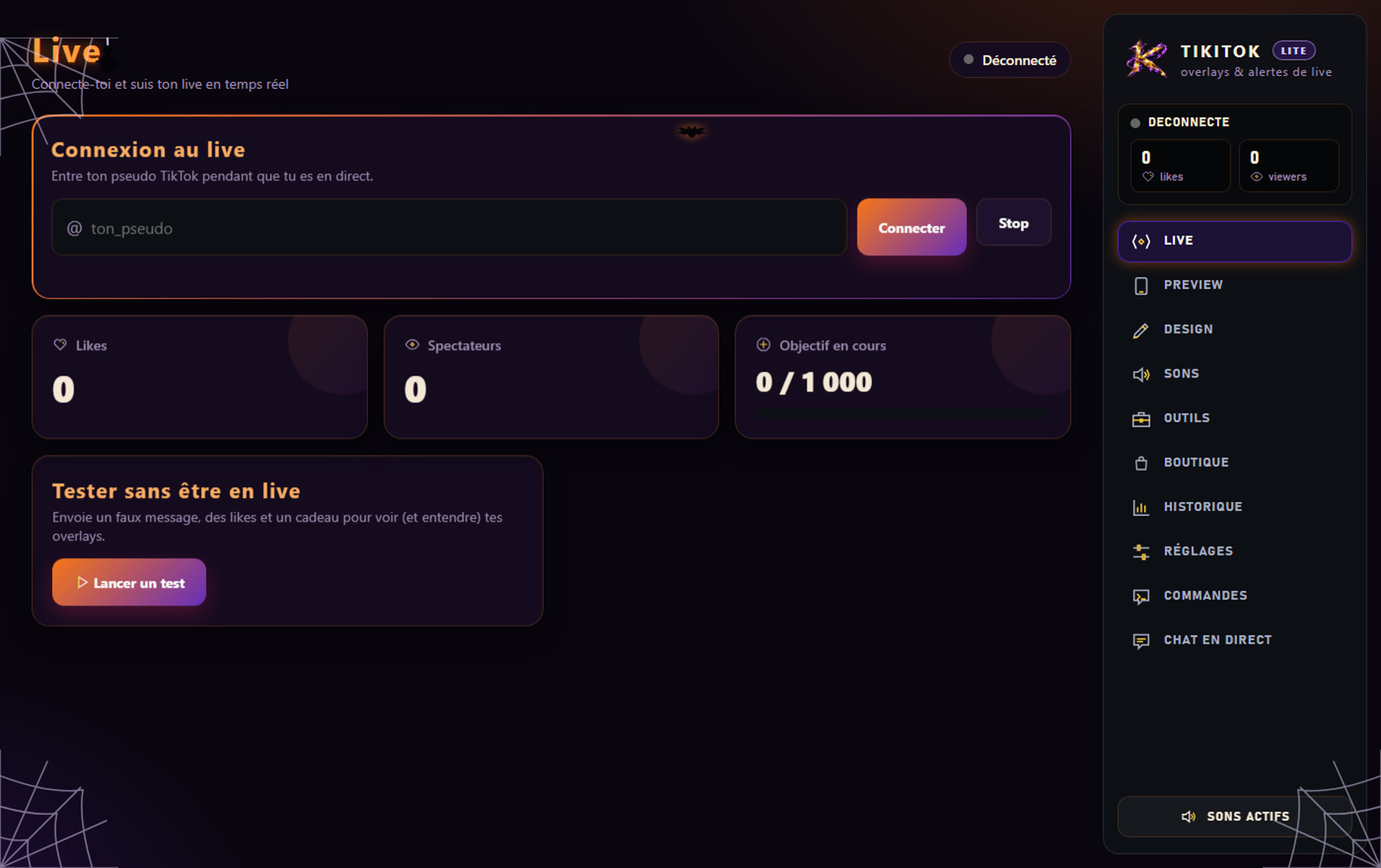
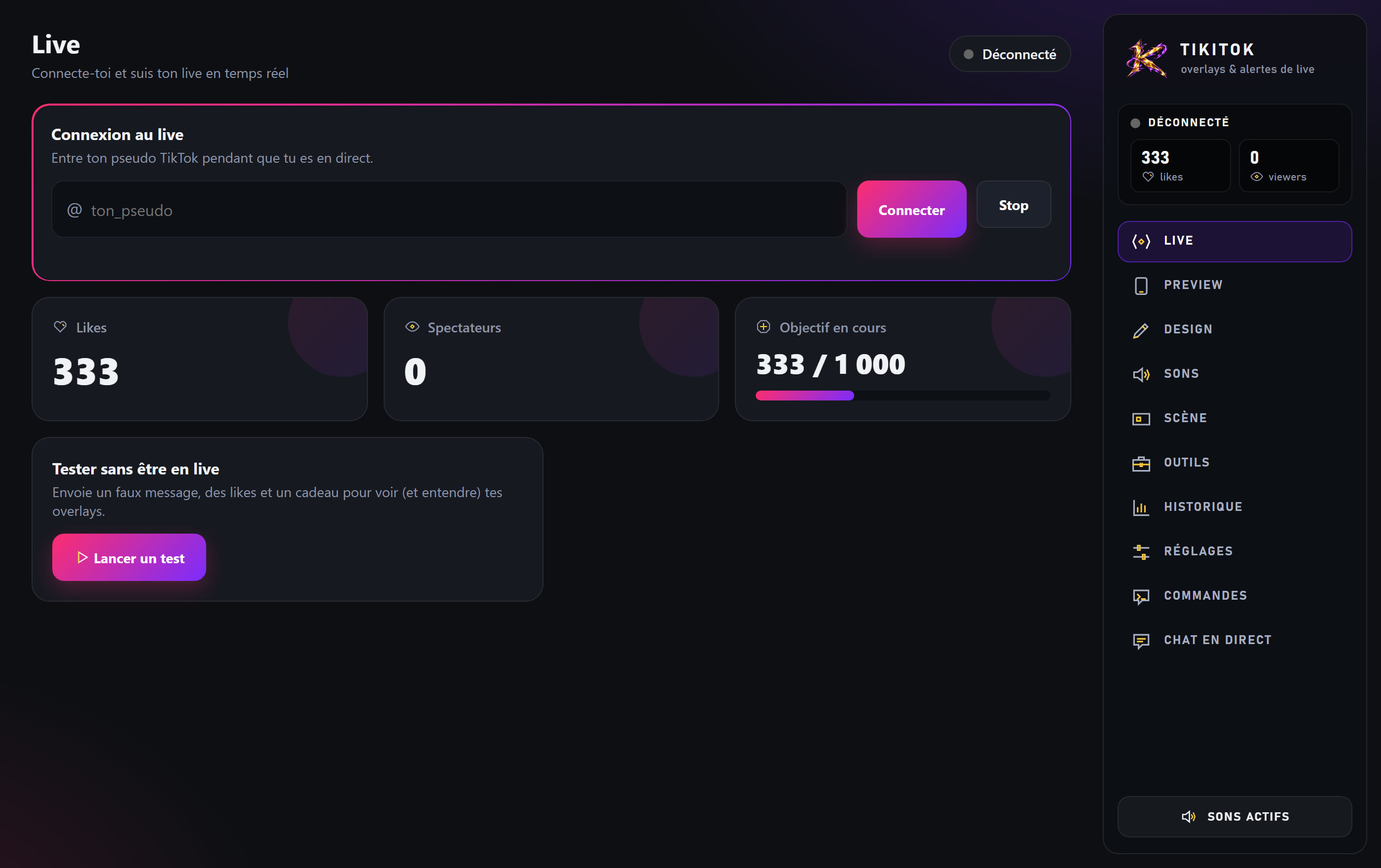
Add files via upload

diff --git a/index.html b/index.html
@@ -1,5 +1,5 @@
 <!doctype html>
-<html lang="fr" class="hw">
+<html lang="fr">
 <head>
 <meta charset="utf-8">
 <meta name="viewport" content="width=device-width, initial-scale=1">
@@ -516,7 +516,7 @@
   /* offres : plus courtes, la liste ci-dessus dit déjà tout */
   .plans { grid-template-columns: minmax(0, .85fr) minmax(0, 1.15fr); }
   @media (max-width: 760px) { .plans { grid-template-columns: 1fr; } }
-  .plan ul { gap: 12px; margin-bottom: 26px; }
+  .plan ul { gap: 12px; margin-bottom: 26px; align-content: start; }
   .paystrip { display: flex; align-items: center; justify-content: space-between; gap: 18px 30px; flex-wrap: wrap; margin-top: 30px; padding: 20px 24px; border-radius: 18px; border: 1px dashed rgba(255,255,255,.2); background: rgba(255,255,255,.03); }
   .paystrip p { margin: 0; color: #d9d3e8; max-width: 470px; }
   html.hw .paystrip { border-color: rgba(255,150,60,.35); }
@@ -552,16 +552,16 @@
   html.hw #hwDeco .embers, html.hw #hwDeco .fog { display: none; }
   /* barre de défilement maison : fine, sombre, curseur dégradé orange-rose */
   ::-webkit-scrollbar { width: 12px; height: 12px; }
-  ::-webkit-scrollbar-track { background: #0c0614; border-left: 1px solid rgba(255,150,60,.12); }
-  ::-webkit-scrollbar-thumb { border-radius: 99px; border: 3px solid #0c0614; background: linear-gradient(180deg, #ff9a3c, #ff3d8b); min-height: 48px; }
-  ::-webkit-scrollbar-thumb:hover { background: linear-gradient(180deg, #ffb066, #ff5fa0); }
+  ::-webkit-scrollbar-track { background: #0c0614; border-left: 1px solid rgba(160,110,255,.12); }
+  ::-webkit-scrollbar-thumb { border-radius: 99px; border: 3px solid #0c0614; background: linear-gradient(180deg, #ff5f9e, #ff3d8b); min-height: 48px; }
+  ::-webkit-scrollbar-thumb:hover { background: linear-gradient(180deg, #ff9cc4, #ff5fa0); }
   ::-webkit-scrollbar-corner { background: #0c0614; }
   #fx { position: fixed; inset: 0; width: 100%; height: 100%; z-index: 0; pointer-events: none; }
   #stage { position: fixed; inset: 0; z-index: 1; pointer-events: none; overflow: hidden; perspective: 1500px; perspective-origin: 50% 46%; transition: opacity .4s; }
   #world { position: absolute; left: 50%; top: 50%; width: 0; height: 0; transform-style: preserve-3d; will-change: transform; }
   .pc { position: absolute; left: 0; top: 0; transform-style: preserve-3d; backface-visibility: hidden; will-change: transform, opacity; border-radius: 10px; overflow: hidden; }
   .pc.tile { background-repeat: no-repeat; box-shadow: 0 0 0 1px rgba(255,255,255,.06); }
-  .pc.card { background-size: cover; background-position: center; box-shadow: 0 16px 38px rgba(0,0,0,.6), 0 0 0 1px rgba(255,150,60,.25), 0 0 26px rgba(255,122,26,.18); }
+  .pc.card { background-size: cover; background-position: center; box-shadow: 0 16px 38px rgba(0,0,0,.6), 0 0 0 1px rgba(160,110,255,.25), 0 0 26px rgba(255,45,111,.18); }
   @keyframes kb { from { background-size: 100% 100%; background-position: 0 0; } to { background-size: 128% 128%; background-position: 100% 100%; } }
   @keyframes pan { from { background-position: var(--p0); } to { background-position: var(--p1); } }
   .pc.card.kb { animation: kb var(--kd, 14s) ease-in-out var(--kl, 0s) infinite alternate; }
@@ -569,11 +569,11 @@
   @media (prefers-reduced-motion: reduce) { .pc.card.kb, .pc.card.pn { animation: none; } }
   .pc.spr { overflow: visible; border-radius: 0; filter: drop-shadow(0 0 10px currentColor); }
   .pc.spr svg { width: 100%; height: 100%; display: block; stroke: currentColor; fill: none; stroke-width: 1.6; stroke-linecap: round; stroke-linejoin: round; }
-  .pc.mini { box-shadow: 0 18px 40px rgba(0,0,0,.55), 0 0 28px rgba(255,122,26,.2); }
+  .pc.mini { box-shadow: 0 18px 40px rgba(0,0,0,.55), 0 0 28px rgba(255,45,111,.2); }
   header { position: fixed; top: 0; left: 0; right: 0; z-index: 60; margin: 0; background: linear-gradient(180deg, rgba(7,3,12,.9), rgba(7,3,12,0)); }
   header .wrap { height: 70px; border-radius: 0; background: transparent; border: 0; box-shadow: none; backdrop-filter: none; padding: 0; }
   header .wrap::after, html.hw header::after { display: none !important; }
-  header.solid { background: rgba(7,3,12,.82); backdrop-filter: blur(14px); border-bottom: 1px solid rgba(255,150,60,.18); }
+  header.solid { background: rgba(7,3,12,.82); backdrop-filter: blur(14px); border-bottom: 1px solid rgba(160,110,255,.18); }
   main, footer { position: relative; z-index: 2; }
 
   /* points de navigation à droite : le chapitre en cours est nommé */
@@ -582,7 +582,7 @@
   #dots button span { opacity: 0; transform: translateX(8px); transition: opacity .25s, transform .25s; color: #fff; }
   #dots button i { width: 8px; height: 8px; border-radius: 50%; background: rgba(255,255,255,.28); transition: background .25s, transform .25s, box-shadow .25s; }
   #dots button:hover span, #dots button.on span { opacity: 1; transform: none; }
-  #dots button.on i { background: #ff7a1a; transform: scale(1.5); box-shadow: 0 0 14px #ff7a1a; }
+  #dots button.on i { background: #ff2d6f; transform: scale(1.5); box-shadow: 0 0 14px #ff2d6f; }
   @media (max-width: 900px) { #dots { display: none; } }
 
   /* chapitres */
@@ -592,20 +592,20 @@
   .chin.mid { text-align: center; }
   .chin.left { max-width: 1180px; } .chin.left > * { max-width: 520px; }
   .ch .eyebrow::before, .ch .eyebrow::after, .essai .pilltag::before { display: none !important; }
-  .ch .eyebrow { font: 800 13px Consolas, "Courier New", monospace; letter-spacing: .38em; text-transform: uppercase; color: #ff7a1a; margin-bottom: 20px; text-shadow: 0 0 16px rgba(255,122,26,.45); }
+  .ch .eyebrow { font: 800 13px Consolas, "Courier New", monospace; letter-spacing: .38em; text-transform: uppercase; color: #ff2d6f; margin-bottom: 20px; text-shadow: 0 0 16px rgba(255,45,111,.45); }
   .ch h1 { font-size: clamp(50px, 8.4vw, 118px); font-weight: 800; letter-spacing: -.045em; line-height: .96; margin: 0 auto 26px; max-width: 14ch; }
   .ch h2 { font-size: clamp(38px, 5.6vw, 76px); font-weight: 800; letter-spacing: -.04em; line-height: .98; margin: 0 0 24px; }
-  .ch h1 em, .ch h2 em, .essai h2 em { font-style: normal; background: linear-gradient(100deg, #ffb347, #ff7a1a 45%, #ff3d8b); -webkit-background-clip: text; background-clip: text; color: transparent; filter: drop-shadow(0 0 22px rgba(255,122,26,.35)); }
+  .ch h1 em, .ch h2 em, .essai h2 em { font-style: normal; background: linear-gradient(100deg, #ff7ab0, #ff2d6f 45%, #ff3d8b); -webkit-background-clip: text; background-clip: text; color: transparent; filter: drop-shadow(0 0 22px rgba(255,45,111,.35)); }
   .ch .lead { color: #c3b4de; font-size: clamp(17px, 1.7vw, 21px); line-height: 1.55; margin: 0 0 30px; }
   .chin.mid .lead { margin-inline: auto; max-width: 640px; }
   .ch .cta { display: flex; gap: 14px; flex-wrap: wrap; justify-content: center; }
   .ch .legal { margin: 26px auto 0; max-width: 560px; }
   .scrollhint { margin-top: 60px; display: grid; justify-items: center; gap: 10px; color: rgba(255,255,255,.5); font: 800 11px Consolas, monospace; letter-spacing: .3em; text-transform: uppercase; }
-  .scrollhint i { width: 1px; height: 48px; background: linear-gradient(#ff7a1a, transparent); animation: sh 1.8s ease-in-out infinite; }
+  .scrollhint i { width: 1px; height: 48px; background: linear-gradient(#ff2d6f, transparent); animation: sh 1.8s ease-in-out infinite; }
   @keyframes sh { 0% { transform: scaleY(0); transform-origin: top; } 50% { transform: scaleY(1); transform-origin: top; } 51% { transform-origin: bottom; } 100% { transform: scaleY(0); transform-origin: bottom; } }
   .legend { display: flex; gap: 10px; margin: 0 0 8px; }
   .chips { list-style: none; margin: 0; padding: 0; display: flex; flex-wrap: wrap; gap: 10px; }
-  .chips li { display: inline-flex; align-items: center; gap: 10px; padding: 9px 16px 9px 10px; border-radius: 999px; background: rgba(255,255,255,.05); border: 1px solid rgba(255,150,60,.25); font-size: 15px; backdrop-filter: blur(6px); }
+  .chips li { display: inline-flex; align-items: center; gap: 10px; padding: 9px 16px 9px 10px; border-radius: 999px; background: rgba(255,255,255,.05); border: 1px solid rgba(160,110,255,.25); font-size: 15px; backdrop-filter: blur(6px); }
   .ch .chin > * { opacity: 0; transform: translateY(26px); transition: opacity .7s, transform .7s; }
   .ch.vu .chin > * { opacity: 1; transform: none; }
   .ch.vu .chin > *:nth-child(2) { transition-delay: .08s; } .ch.vu .chin > *:nth-child(3) { transition-delay: .16s; } .ch.vu .chin > *:nth-child(4) { transition-delay: .24s; } .ch.vu .chin > *:nth-child(5) { transition-delay: .32s; }
@@ -614,28 +614,28 @@
   /* essaie toi-même */
   .essai { padding: 110px 0 120px; text-align: center; }
   .essai .wrap { width: min(1120px, 100% - 40px); }
-  .pilltag { display: inline-block; padding: 8px 20px; border-radius: 999px; border: 1px solid rgba(255,122,26,.45); background: rgba(255,122,26,.08); color: #ffb066; font: 800 12px Consolas, monospace; letter-spacing: .28em; text-transform: uppercase; box-shadow: 0 0 24px rgba(255,122,26,.18); margin-bottom: 22px; }
+  .pilltag { display: inline-block; padding: 8px 20px; border-radius: 999px; border: 1px solid rgba(255,45,111,.45); background: rgba(255,45,111,.08); color: #ff9cc4; font: 800 12px Consolas, monospace; letter-spacing: .28em; text-transform: uppercase; box-shadow: 0 0 24px rgba(255,45,111,.18); margin-bottom: 22px; }
   .essai h2 { font-size: clamp(34px, 5vw, 64px); font-weight: 800; letter-spacing: -.04em; line-height: 1; margin: 0 0 18px; }
   .essai .lead2.mid { margin: 0 auto 44px; max-width: 620px; }
   .demo { display: grid; grid-template-columns: minmax(280px, .9fr) minmax(280px, 1.1fr); gap: 40px; align-items: center; text-align: left; }
   @media (max-width: 860px) { .demo { grid-template-columns: 1fr; } }
   .gifts { display: grid; gap: 12px; }
-  .gifthd { font: 800 12px Consolas, monospace; letter-spacing: .26em; text-transform: uppercase; color: #ffb066; margin-bottom: 4px; }
-  .gift { display: flex; align-items: center; gap: 14px; padding: 14px 18px; border-radius: 18px; border: 1px solid rgba(255,150,60,.2); background: rgba(255,255,255,.04); color: inherit; font: inherit; text-align: left; cursor: pointer; transition: transform .18s, border-color .18s, box-shadow .18s, background .18s; }
-  .gift:hover { transform: translateX(6px); border-color: rgba(255,122,26,.6); background: rgba(255,122,26,.08); }
-  .gift.on { border-color: #ff7a1a; box-shadow: 0 0 30px rgba(255,122,26,.3); background: rgba(255,122,26,.12); }
+  .gifthd { font: 800 12px Consolas, monospace; letter-spacing: .26em; text-transform: uppercase; color: #ff9cc4; margin-bottom: 4px; }
+  .gift { display: flex; align-items: center; gap: 14px; padding: 14px 18px; border-radius: 18px; border: 1px solid rgba(160,110,255,.2); background: rgba(255,255,255,.04); color: inherit; font: inherit; text-align: left; cursor: pointer; transition: transform .18s, border-color .18s, box-shadow .18s, background .18s; }
+  .gift:hover { transform: translateX(6px); border-color: rgba(255,45,111,.6); background: rgba(255,45,111,.08); }
+  .gift.on { border-color: #ff2d6f; box-shadow: 0 0 30px rgba(255,45,111,.3); background: rgba(255,45,111,.12); }
   .gift .gi { width: 52px; height: 52px; flex: none; display: grid; place-items: center; border-radius: 14px; background: rgba(0,0,0,.35); font-size: 30px; border: 1px solid rgba(255,255,255,.1); }
   .gift b { display: block; font-size: 18px; } .gift small { color: #a99bc4; font-size: 13px; }
-  .gift .dv { margin-left: auto; font: 800 13px Consolas, monospace; color: #8cff2e; }
+  .gift .dv { margin-left: auto; font: 800 13px Consolas, monospace; color: #7b2cff; }
   .phoneW { display: grid; place-items: center; }
-  .phone { position: relative; width: min(300px, 70vw); aspect-ratio: 9 / 18; border-radius: 34px; overflow: hidden; border: 8px solid #151021; box-shadow: 0 0 0 1px rgba(255,150,60,.35), 0 30px 80px rgba(0,0,0,.7), 0 0 70px rgba(255,122,26,.25); background: #0a0610; isolation: isolate; }
-  .phone .vid { position: absolute; inset: -20%; z-index: -1; background: radial-gradient(60% 50% at 30% 30%, #ff7a1a 0, transparent 60%), radial-gradient(55% 50% at 78% 62%, #6a2bd0 0, transparent 62%), radial-gradient(50% 40% at 40% 92%, #3fae12 0, transparent 62%), #12060c; filter: blur(22px); opacity: .85; animation: vidm 12s ease-in-out infinite alternate; }
+  .phone { position: relative; width: min(300px, 70vw); aspect-ratio: 9 / 18; border-radius: 34px; overflow: hidden; border: 8px solid #151021; box-shadow: 0 0 0 1px rgba(160,110,255,.35), 0 30px 80px rgba(0,0,0,.7), 0 0 70px rgba(255,45,111,.25); background: #0a0610; isolation: isolate; }
+  .phone .vid { position: absolute; inset: -20%; z-index: -1; background: radial-gradient(60% 50% at 30% 30%, #ff2d6f 0, transparent 60%), radial-gradient(55% 50% at 78% 62%, #6a2bd0 0, transparent 62%), radial-gradient(50% 40% at 40% 92%, #3fae12 0, transparent 62%), #12060c; filter: blur(22px); opacity: .85; animation: vidm 12s ease-in-out infinite alternate; }
   @keyframes vidm { to { transform: rotate(14deg) scale(1.15); } }
   .ph-top { position: absolute; top: 14px; left: 12px; right: 12px; display: flex; justify-content: space-between; font: 800 11px Consolas, monospace; letter-spacing: .08em; }
-  .ph-top .live { padding: 4px 9px; border-radius: 6px; background: #ff7a1a; box-shadow: 0 0 14px rgba(255,122,26,.7); } .ph-top .vw { padding: 4px 9px; border-radius: 6px; background: rgba(0,0,0,.45); }
+  .ph-top .live { padding: 4px 9px; border-radius: 6px; background: #ff2d6f; box-shadow: 0 0 14px rgba(255,45,111,.7); } .ph-top .vw { padding: 4px 9px; border-radius: 6px; background: rgba(0,0,0,.45); }
   .ph-goal { position: absolute; top: 46px; left: 12px; right: 12px; padding: 8px 10px; border-radius: 12px; background: rgba(0,0,0,.45); border: 1px solid rgba(255,255,255,.12); backdrop-filter: blur(6px); }
   .ph-goal .gl { display: flex; justify-content: space-between; font: 800 11px Consolas, monospace; margin-bottom: 6px; }
-  .ph-goal .gb { height: 8px; border-radius: 8px; background: rgba(255,255,255,.14); overflow: hidden; } .ph-goal .gb i { display: block; height: 100%; width: 0; border-radius: 8px; background: linear-gradient(90deg, #8cff2e, #ffb347); box-shadow: 0 0 12px #8cff2e; transition: width .7s cubic-bezier(.2,.8,.2,1); }
+  .ph-goal .gb { height: 8px; border-radius: 8px; background: rgba(255,255,255,.14); overflow: hidden; } .ph-goal .gb i { display: block; height: 100%; width: 0; border-radius: 8px; background: linear-gradient(90deg, #7b2cff, #ff7ab0); box-shadow: 0 0 12px #7b2cff; transition: width .7s cubic-bezier(.2,.8,.2,1); }
   .ph-alerts { position: absolute; left: 10px; right: 10px; top: 104px; display: flex; flex-direction: column; gap: 8px; }
   .al { display: flex; align-items: center; gap: 10px; padding: 8px 12px 8px 8px; border-radius: 14px; border: 2px solid var(--c, #3aa0ff); background: linear-gradient(100deg, rgba(13,27,94,.96), rgba(22,48,143,.9)); box-shadow: 0 8px 20px rgba(0,0,0,.5), 0 0 18px color-mix(in srgb, var(--c, #3aa0ff) 45%, transparent); animation: alIn .5s cubic-bezier(.2,1.4,.4,1) both; }
   .al.out { animation: alOut .4s forwards; } @keyframes alIn { from { opacity: 0; transform: translateX(-60px) scale(.85); } to { opacity: 1; transform: none; } } @keyframes alOut { to { opacity: 0; transform: translateX(-30px); } }
@@ -645,25 +645,25 @@
   .ph-hearts span { position: absolute; bottom: 0; font-size: 22px; animation: dmRise 3s ease-in forwards; }
   @keyframes dmRise { 0% { transform: translate(0,0) scale(.4); opacity: 0; } 12% { opacity: 1; transform: translate(0,-20px) scale(1); } 100% { transform: translate(var(--dx), -330px) scale(1.15) rotate(var(--rot)); opacity: 0; } }
   .ph-chat { position: absolute; left: 10px; right: 70px; bottom: 14px; display: flex; flex-direction: column; justify-content: flex-end; gap: 5px; height: 130px; overflow: hidden; -webkit-mask: linear-gradient(transparent, #000 40%); mask: linear-gradient(transparent, #000 40%); }
-  .ph-chat div { font: 600 12px "Segoe UI", sans-serif; padding: 5px 10px; border-radius: 12px; background: rgba(0,0,0,.5); width: fit-content; max-width: 100%; animation: pop .3s cubic-bezier(.2,1.2,.3,1); } .ph-chat div b { color: #ffb347; margin-right: 6px; }
+  .ph-chat div { font: 600 12px "Segoe UI", sans-serif; padding: 5px 10px; border-radius: 12px; background: rgba(0,0,0,.5); width: fit-content; max-width: 100%; animation: pop .3s cubic-bezier(.2,1.2,.3,1); } .ph-chat div b { color: #ff7ab0; margin-right: 6px; }
   @keyframes pop { from { transform: translateY(12px) scale(.9); opacity: 0; } }
   .ph-flash { position: absolute; inset: 0; pointer-events: none; opacity: 0; background: radial-gradient(ellipse at 50% 40%, var(--fc, #ffb21e), transparent 65%); } .ph-flash.on { animation: fl .9s ease-out; } @keyframes fl { 0% { opacity: .75; } 100% { opacity: 0; } }
 
   /* mini overlays (les panneaux qui tournent dans la scène) */
-  .mn { font-family: "Segoe UI", sans-serif; color: #fff; background: linear-gradient(150deg, rgba(34,14,52,.96), rgba(14,8,26,.97)); border: 1px solid rgba(255,150,60,.35); padding: 12px 14px; }
-  .mn::before { content: ""; position: absolute; left: 14px; top: 0; width: 46px; height: 4px; border-radius: 0 0 5px 5px; background: linear-gradient(90deg, #ff7a1a, #ff3d8b); }
-  .mn .t { font: 800 11px Consolas, monospace; letter-spacing: .2em; text-transform: uppercase; color: #ffb066; margin-bottom: 8px; }
-  .mn .row { display: flex; align-items: center; gap: 8px; margin: 5px 0; font-size: 13px; } .mn .row b { margin-left: auto; color: #ff7a1a; }
-  .mn .av { width: 22px; height: 22px; border-radius: 50%; background: linear-gradient(135deg, #8b3dff, #ff7a1a); flex: none; }
-  .mn .bar { height: 10px; border-radius: 10px; background: rgba(255,255,255,.12); overflow: hidden; } .mn .bar i { display: block; height: 100%; border-radius: 10px; background: linear-gradient(90deg, #8cff2e, #ffb347); }
+  .mn { font-family: "Segoe UI", sans-serif; color: #fff; background: linear-gradient(150deg, rgba(34,14,52,.96), rgba(14,8,26,.97)); border: 1px solid rgba(160,110,255,.35); padding: 12px 14px; }
+  .mn::before { content: ""; position: absolute; left: 14px; top: 0; width: 46px; height: 4px; border-radius: 0 0 5px 5px; background: linear-gradient(90deg, #ff2d6f, #ff3d8b); }
+  .mn .t { font: 800 11px Consolas, monospace; letter-spacing: .2em; text-transform: uppercase; color: #ff9cc4; margin-bottom: 8px; }
+  .mn .row { display: flex; align-items: center; gap: 8px; margin: 5px 0; font-size: 13px; } .mn .row b { margin-left: auto; color: #ff2d6f; }
+  .mn .av { width: 22px; height: 22px; border-radius: 50%; background: linear-gradient(135deg, #8b3dff, #ff2d6f); flex: none; }
+  .mn .bar { height: 10px; border-radius: 10px; background: rgba(255,255,255,.12); overflow: hidden; } .mn .bar i { display: block; height: 100%; border-radius: 10px; background: linear-gradient(90deg, #7b2cff, #ff7ab0); }
   .mn .big { font: 900 34px Impact, "Arial Black", sans-serif; letter-spacing: .02em; line-height: 1; }
-  .mn .bub { padding: 6px 12px; border-radius: 14px; background: rgba(255,255,255,.09); font-size: 12px; margin: 4px 0; width: fit-content; } .mn .bub b { color: #ffb347; margin-right: 5px; }
-  .mn.wheel { display: grid; place-items: center; padding: 10px; } .mn.wheel i { width: 132px; height: 132px; border-radius: 50%; background: conic-gradient(#ff7a1a 0 16%, #8b3dff 0 33%, #8cff2e 0 50%, #ff3d8b 0 66%, #ffd24a 0 83%, #38c8ff 0); border: 5px solid #fff; box-shadow: 0 0 30px rgba(255,122,26,.5), inset 0 0 20px rgba(0,0,0,.4); position: relative; } .mn.wheel i::after { content: ""; position: absolute; left: 50%; top: -12px; margin-left: -9px; border: 9px solid transparent; border-top: 18px solid #fff; }
-  .mn.dice { display: grid; place-items: center; background: none; border: 0; } .mn.dice::before { display: none; } .mn.dice i { width: 96px; height: 96px; border-radius: 20px; background: linear-gradient(145deg, #fff, #cfc9de); display: grid; grid-template: repeat(3, 1fr) / repeat(3, 1fr); padding: 14px; box-shadow: 0 12px 30px rgba(0,0,0,.5), 0 0 30px rgba(255,122,26,.35); transform: rotate(-12deg); } .mn.dice i b { width: 16px; height: 16px; border-radius: 50%; background: #1b1130; place-self: center; }
-  .mn.cam { padding: 0; background: linear-gradient(135deg, #3a1a6a, #ff7a1a); border: 4px solid #8cff2e; box-shadow: 0 0 24px rgba(140,255,46,.5), inset 0 0 40px rgba(0,0,0,.4); } .mn.cam::before { display: none; } .mn.cam span { position: absolute; left: 10px; bottom: 6px; font: 800 11px Consolas, monospace; letter-spacing: .2em; color: #fff; }
+  .mn .bub { padding: 6px 12px; border-radius: 14px; background: rgba(255,255,255,.09); font-size: 12px; margin: 4px 0; width: fit-content; } .mn .bub b { color: #ff7ab0; margin-right: 5px; }
+  .mn.wheel { display: grid; place-items: center; padding: 10px; } .mn.wheel i { width: 132px; height: 132px; border-radius: 50%; background: conic-gradient(#ff2d6f 0 16%, #8b3dff 0 33%, #7b2cff 0 50%, #ff3d8b 0 66%, #ffd24a 0 83%, #38c8ff 0); border: 5px solid #fff; box-shadow: 0 0 30px rgba(255,45,111,.5), inset 0 0 20px rgba(0,0,0,.4); position: relative; } .mn.wheel i::after { content: ""; position: absolute; left: 50%; top: -12px; margin-left: -9px; border: 9px solid transparent; border-top: 18px solid #fff; }
+  .mn.dice { display: grid; place-items: center; background: none; border: 0; } .mn.dice::before { display: none; } .mn.dice i { width: 96px; height: 96px; border-radius: 20px; background: linear-gradient(145deg, #fff, #cfc9de); display: grid; grid-template: repeat(3, 1fr) / repeat(3, 1fr); padding: 14px; box-shadow: 0 12px 30px rgba(0,0,0,.5), 0 0 30px rgba(255,45,111,.35); transform: rotate(-12deg); } .mn.dice i b { width: 16px; height: 16px; border-radius: 50%; background: #1b1130; place-self: center; }
+  .mn.cam { padding: 0; background: linear-gradient(135deg, #3a1a6a, #ff2d6f); border: 4px solid #7b2cff; box-shadow: 0 0 24px rgba(140,255,46,.5), inset 0 0 40px rgba(0,0,0,.4); } .mn.cam::before { display: none; } .mn.cam span { position: absolute; left: 10px; bottom: 6px; font: 800 11px Consolas, monospace; letter-spacing: .2em; color: #fff; }
   .mn.giftm { display: flex; align-items: center; gap: 12px; border-color: #b44dff; box-shadow: 0 0 22px rgba(180,77,255,.4); } .mn.giftm .ge { width: 52px; height: 52px; border-radius: 12px; background: linear-gradient(160deg, #b44dff, #5a1f8f); display: grid; place-items: center; font-size: 32px; flex: none; } .mn.giftm small { font: 800 9px Consolas, monospace; letter-spacing: .2em; color: #b44dff; display: block; } .mn.giftm b { font-size: 20px; text-transform: uppercase; font-style: italic; display: block; } .mn.giftm span { font-size: 12px; color: #c9b8e8; }
-  .mn.boss .hp { height: 16px; border-radius: 4px; background: #2a0f12; border: 1px solid #ff3d4a; overflow: hidden; margin-top: 8px; } .mn.boss .hp i { display: block; height: 100%; background: linear-gradient(90deg, #ff3d4a, #ff9a3c); }
-  .mn.timer { text-align: center; } .mn.timer .big { font-size: 46px; color: #ffb066; }
+  .mn.boss .hp { height: 16px; border-radius: 4px; background: #2a0f12; border: 1px solid #ff3d4a; overflow: hidden; margin-top: 8px; } .mn.boss .hp i { display: block; height: 100%; background: linear-gradient(90deg, #ff3d4a, #ff5f9e); }
+  .mn.timer { text-align: center; } .mn.timer .big { font-size: 46px; color: #ff9cc4; }
   #stage::after { content: ""; position: absolute; inset: 0; pointer-events: none; opacity: var(--scrim, 0); background: linear-gradient(90deg, rgba(7,3,12,.92) 0, rgba(7,3,12,.55) 42%, rgba(7,3,12,0) 70%); }
   .ch .chips { justify-content: flex-start; margin: 0; }
   .mn.giftm .ge { font-size: 32px; } .mn.giftm > div:last-child { min-width: 0; }
@@ -671,18 +671,18 @@
   .legend .tier { margin-right: 6px; }
 
 
-  .mn.cam { background: #000 url(img/cameras.jpg) center / cover; border: 2px solid #8cff2e; box-shadow: 0 0 24px rgba(140,255,46,.4), 0 18px 40px rgba(0,0,0,.55); }
+  .mn.cam { background: #000 url(img/cameras.jpg) center / cover; border: 2px solid #7b2cff; box-shadow: 0 0 24px rgba(140,255,46,.4), 0 18px 40px rgba(0,0,0,.55); }
   .mn.cam span { text-shadow: 0 1px 4px #000; }
 
   /* accueil : lueur, badge, cartes qui flottent autour du titre */
-  .ch.c0::before { content: ""; position: absolute; inset: 0; z-index: -1; pointer-events: none; background: radial-gradient(620px 380px at 18% 22%, rgba(107,47,194,.38), transparent 70%), radial-gradient(560px 380px at 84% 30%, rgba(255,122,26,.26), transparent 70%), radial-gradient(520px 300px at 50% 92%, rgba(140,255,46,.09), transparent 70%); animation: aur 12s ease-in-out infinite alternate; }
+  .ch.c0::before { content: ""; position: absolute; inset: 0; z-index: -1; pointer-events: none; background: radial-gradient(620px 380px at 18% 22%, rgba(107,47,194,.38), transparent 70%), radial-gradient(560px 380px at 84% 30%, rgba(255,45,111,.26), transparent 70%), radial-gradient(520px 300px at 50% 92%, rgba(140,255,46,.09), transparent 70%); animation: aur 12s ease-in-out infinite alternate; }
   @keyframes aur { to { transform: translateY(26px) scale(1.06); opacity: .8; } }
-  .newbadge { display: inline-flex; align-items: center; gap: 10px; margin: 0 0 22px; padding: 7px 18px 7px 8px; border-radius: 999px; border: 1px solid rgba(255,122,26,.45); background: rgba(255,122,26,.08); color: #ffd0a0; font: 700 14px "Segoe UI", sans-serif; text-decoration: none; transition: transform .2s, box-shadow .2s; }
-  .newbadge:hover { transform: translateY(-2px); box-shadow: 0 0 26px rgba(255,122,26,.35); }
-  .newbadge b { padding: 3px 10px; border-radius: 999px; background: linear-gradient(100deg, #ff7a1a, #ff3d8b); color: #fff; font: 800 11px Consolas, monospace; letter-spacing: .16em; }
+  .newbadge { display: inline-flex; align-items: center; gap: 10px; margin: 0 0 22px; padding: 7px 18px 7px 8px; border-radius: 999px; border: 1px solid rgba(255,45,111,.45); background: rgba(255,45,111,.08); color: #ffd0a0; font: 700 14px "Segoe UI", sans-serif; text-decoration: none; transition: transform .2s, box-shadow .2s; }
+  .newbadge:hover { transform: translateY(-2px); box-shadow: 0 0 26px rgba(255,45,111,.35); }
+  .newbadge b { padding: 3px 10px; border-radius: 999px; background: linear-gradient(100deg, #ff2d6f, #ff3d8b); color: #fff; font: 800 11px Consolas, monospace; letter-spacing: .16em; }
   .c0 .chips { justify-content: center; margin: 22px 0 0; }
   .hfs { position: absolute; inset: 0; pointer-events: none; }
-  .hf { position: absolute; animation: flo 6s ease-in-out infinite alternate; box-shadow: 0 18px 40px rgba(0,0,0,.5), 0 0 26px rgba(255,122,26,.18); border-radius: 14px; }
+  .hf { position: absolute; animation: flo 6s ease-in-out infinite alternate; box-shadow: 0 18px 40px rgba(0,0,0,.5), 0 0 26px rgba(255,45,111,.18); border-radius: 14px; }
   .hf.l1 { left: 3%; top: 58vh; width: 240px; } .hf.l2 { left: 9%; top: 84vh; width: 170px; animation-delay: -2s; }
   .hf.r1 { right: 3%; top: 56vh; width: 230px; animation-delay: -4s; } .hf.r2 { right: 8%; top: 82vh; width: 240px; animation-delay: -1s; }
   @keyframes flo { from { transform: translateY(-10px) rotate(-1.5deg); } to { transform: translateY(12px) rotate(1.5deg); } }
@@ -694,7 +694,7 @@
   .mn.giftm .ge .tki { width: 32px; height: 32px; }
 
   /* packs de thèmes : un pack par jeu, 6,99 € chacun */
-  .tpack { margin-top: 46px; padding: 34px; border-radius: 26px; border: 1px solid rgba(255,150,60,.3); background: linear-gradient(160deg, rgba(255,122,26,.07), rgba(107,47,194,.07)), var(--card); box-shadow: 0 0 60px rgba(255,122,26,.1); }
+  .tpack { margin-top: 46px; padding: 34px; border-radius: 26px; border: 1px solid rgba(160,110,255,.3); background: linear-gradient(160deg, rgba(255,45,111,.07), rgba(107,47,194,.07)), var(--card); box-shadow: 0 0 60px rgba(255,45,111,.1); }
   .tp-head { display: flex; gap: 28px; align-items: center; justify-content: space-between; flex-wrap: wrap; }
   .tp-head h3 { font-size: clamp(28px, 3.4vw, 40px); margin: 8px 0 8px; }
   .tp-head p { margin: 0; max-width: 560px; color: var(--muted); }
@@ -724,8 +724,8 @@
   .tcredit { margin: 22px 0 0; font-size: 13px; color: var(--muted); }
 
   /* bouton retour en haut */
-  #totop { position: fixed; right: 22px; bottom: 22px; z-index: 58; width: 50px; height: 50px; border-radius: 50%; border: 1px solid rgba(255,150,60,.5); background: linear-gradient(135deg, #ff7a1a, #ff3d8b); color: #fff; cursor: pointer; display: grid; place-items: center; box-shadow: 0 10px 30px rgba(0,0,0,.5), 0 0 24px rgba(255,122,26,.4); opacity: 0; transform: translateY(16px) scale(.8); pointer-events: none; transition: opacity .3s, transform .3s, box-shadow .2s; }
-  #totop.on { opacity: 1; transform: none; pointer-events: auto; } #totop:hover { box-shadow: 0 10px 30px rgba(0,0,0,.5), 0 0 40px rgba(255,122,26,.75); transform: translateY(-3px); }
+  #totop { position: fixed; right: 22px; bottom: 22px; z-index: 58; width: 50px; height: 50px; border-radius: 50%; border: 1px solid rgba(160,110,255,.5); background: linear-gradient(135deg, #ff2d6f, #ff3d8b); color: #fff; cursor: pointer; display: grid; place-items: center; box-shadow: 0 10px 30px rgba(0,0,0,.5), 0 0 24px rgba(255,45,111,.4); opacity: 0; transform: translateY(16px) scale(.8); pointer-events: none; transition: opacity .3s, transform .3s, box-shadow .2s; }
+  #totop.on { opacity: 1; transform: none; pointer-events: auto; } #totop:hover { box-shadow: 0 10px 30px rgba(0,0,0,.5), 0 0 40px rgba(255,45,111,.75); transform: translateY(-3px); }
   #totop svg { width: 22px; height: 22px; fill: none; stroke: currentColor; stroke-width: 2.6; stroke-linecap: round; stroke-linejoin: round; }
 </style>
 <script type="application/ld+json">{"@context":"https://schema.org","@type":"SoftwareApplication","name":"Tikitok Overlays","applicationCategory":"MultimediaApplication","operatingSystem":"Windows","description":"Overlays, alertes, roue de la fortune, contours de caméra et commandes du chat pour TikTok LIVE Studio.","url":"https://tikitokoverlays.com/","image":"https://tikitokoverlays.com/img/logo.png","inLanguage":["fr","en"],"offers":[{"@type":"Offer","name":"Gratuit","price":"0","priceCurrency":"EUR"},{"@type":"Offer","name":"Pro mensuel","price":"20","priceCurrency":"EUR"},{"@type":"Offer","name":"Pro annuel","price":"120","priceCurrency":"EUR"}]}</script>
@@ -842,7 +842,7 @@
   <div class="chin left">
     <span class="eyebrow">06 · À ton image</span>
     <h2>Un style<br><em>qui claque.</em></h2>
-    <p class="lead">Couleurs, polices, contours de caméra et thèmes de saison comme Halloween. Et de nouveaux overlays à chaque mise à jour.</p>
+    <p class="lead">Couleurs, polices, contours de caméra et thèmes de jeux comme Fortnite, Valorant ou GTA6. Et de nouveaux overlays à chaque mise à jour.</p>
     <ul class="chips">
       <li><span class="tier free">Gratuit</span>Couleurs, polices et thèmes au choix</li>
       <li><span class="tier pro">PRO</span>Contours de caméra</li>
@@ -1040,7 +1040,7 @@
     "Ton live et le chat, comme tes spectateurs les voient.": "Your stream and chat, the way your viewers see them.",
     "Des roues, des styles, des effets.": "Wheels, styles, effects.",
     "Des contours de caméra.": "Camera frames.",
-    "Des thèmes de saison, comme Halloween.": "Seasonal themes, like Halloween.",
+    "Des thèmes de jeux, comme Fortnite, Valorant ou GTA6.": "Game themes, like Fortnite, Valorant or GTA6.",
     "Et plus (+)": "And more (+)",
     "De nouveaux overlays à chaque mise à jour.": "New overlays with every update.",
     "Le live à l'écran": "The stream on screen", "Le chat": "The chat", "Les jeux": "Games",
@@ -1051,7 +1051,7 @@
     "Sans carte bancaire : tu fais ta demande dans l'appli, ta clé arrive sur Discord sous 24 h.": "No bank card: you make your request in the app, and your key arrives on Discord within 24 h."
   });
 
-  Object.assign(EN, {"Fais défiler":"Scroll","01 · L'appli":"01 · The app","Tout un live,":"A whole stream,","en une appli.":"in one app.","Tikitok Overlays s'installe sur ton PC et se branche à ton live en un clic. Démontons-la pour voir ce qu'il y a dedans.":"Tikitok Overlays installs on your PC and plugs into your stream in one click. Let's take it apart to see what's inside.","02 · Tout ce qu'elle fait":"02 · Everything it does","Une tornade":"A whirlwind","d'overlays.":"of overlays.","Alertes, chat, objectifs, jeux, classements, thèmes… Fais défiler, on passe tout en revue.":"Alerts, chat, goals, games, leaderboards, themes… Keep scrolling, we go through it all.","03 · Alertes et cadeaux":"03 · Alerts and gifts","Un cadeau.":"One gift.","Un effet.":"One effect.","04 · Le chat":"04 · The chat","Ton chat,":"Your chat,","en vedette.":"in the spotlight.","05 · Les jeux":"05 · The games","Ils jouent":"They play","avec toi.":"with you.","Des jeux collectifs : la roue, le dé 3D, les boss et les courses. Les spectateurs font monter la jauge ensemble.":"Group games: the wheel, the 3D die, bosses and races. Your viewers fill the meter together.","06 · À ton image":"06 · Your own style","Un style":"A style","qui claque.":"that pops.","Couleurs, polices, contours de caméra et thèmes de saison comme Halloween. Et de nouveaux overlays à chaque mise à jour.":"Colors, fonts, camera frames and seasonal themes like Halloween. And new overlays with every update.","Essaie toi-même":"Try it yourself","Envoie un cadeau.":"Send a gift.","Regarde ce qui se passe.":"See what happens.","Choisis un cadeau : l'alerte, la fontaine de cœurs, le chat et l'objectif réagissent comme dans ton vrai live.":"Pick a gift: the alert, the heart fountain, the chat and the goal react just like in your real stream.","Clique sur un cadeau":"Click a gift","Objectif":"Goal"});
+  Object.assign(EN, {"Fais défiler":"Scroll","01 · L'appli":"01 · The app","Tout un live,":"A whole stream,","en une appli.":"in one app.","Tikitok Overlays s'installe sur ton PC et se branche à ton live en un clic. Démontons-la pour voir ce qu'il y a dedans.":"Tikitok Overlays installs on your PC and plugs into your stream in one click. Let's take it apart to see what's inside.","02 · Tout ce qu'elle fait":"02 · Everything it does","Une tornade":"A whirlwind","d'overlays.":"of overlays.","Alertes, chat, objectifs, jeux, classements, thèmes… Fais défiler, on passe tout en revue.":"Alerts, chat, goals, games, leaderboards, themes… Keep scrolling, we go through it all.","03 · Alertes et cadeaux":"03 · Alerts and gifts","Un cadeau.":"One gift.","Un effet.":"One effect.","04 · Le chat":"04 · The chat","Ton chat,":"Your chat,","en vedette.":"in the spotlight.","05 · Les jeux":"05 · The games","Ils jouent":"They play","avec toi.":"with you.","Des jeux collectifs : la roue, le dé 3D, les boss et les courses. Les spectateurs font monter la jauge ensemble.":"Group games: the wheel, the 3D die, bosses and races. Your viewers fill the meter together.","06 · À ton image":"06 · Your own style","Un style":"A style","qui claque.":"that pops.","Couleurs, polices, contours de caméra et thèmes de jeux comme Fortnite, Valorant ou GTA6. Et de nouveaux overlays à chaque mise à jour.":"Colors, fonts, camera frames and seasonal themes like Halloween. And new overlays with every update.","Essaie toi-même":"Try it yourself","Envoie un cadeau.":"Send a gift.","Regarde ce qui se passe.":"See what happens.","Choisis un cadeau : l'alerte, la fontaine de cœurs, le chat et l'objectif réagissent comme dans ton vrai live.":"Pick a gift: the alert, the heart fountain, the chat and the goal react just like in your real stream.","Clique sur un cadeau":"Click a gift","Objectif":"Goal"});
 
   Object.assign(EN, {"NOUVEAU":"NEW","Thèmes de jeux : Fortnite, Valorant, GTA6…":"Game themes: Fortnite, Valorant, GTA6…","Nouveau":"New","Pack Thèmes":"Themes Pack","Des overlays refaits de zéro pour les jeux que tu streames : chat, cadeaux, objectifs, classement, victoire… chaque jeu a son style et ses animations, prêts à l'emploi. Les thèmes ne sont pas personnalisables.":"Overlays rebuilt from scratch for the games you stream: chat, gifts, goals, leaderboard, victory… each game has its own style and animations, ready to use. Themes can't be customized.","6,99 €":"€6.99","paiement unique":"one-time payment","Prendre le pack":"Get the pack","Victoire royale, tempête, butin":"Victory royale, storm, loot","Lames, ACE, crédits":"Blades, ACE, credits","HUD, ultime, moment fort":"HUD, ultimate, play of the game","Hotbar, cœurs, succès":"Hotbar, hearts, advancements","Radar, killstreak, objectif":"Radar, killstreak, objective","Niveau de recherche, argent, missions":"Wanted level, money, missions","Inspirés par ces jeux. Tikitok Overlays n'est affilié à aucun de leurs éditeurs.":"Inspired by these games. Tikitok Overlays is not affiliated with any of their publishers."});
 
@@ -1160,8 +1160,8 @@
     t.title = LANG === 'en' ? (on ? 'Halloween theme: on' : 'Halloween theme: off') : (on ? 'Thème Halloween : activé' : 'Thème Halloween : désactivé');
     if (save) try { localStorage.setItem('hw', on ? '1' : '0'); } catch { /* stockage indisponible */ }
   }
-  // thème Halloween permanent : plus de bouton pour le couper
-  setHw(true, false);
+  // thème Halloween retiré du site : le thème neutre (rose / violet) est le seul
+  setHw(false, false);
   for (const e of document.querySelectorAll('[data-i]')) e.innerHTML = window.tabIcon(e.dataset.i);
   try { const ld = document.querySelector('script[type="application/ld+json"]'); const o = JSON.parse(ld.textContent); o.offers[1].price = String(PRICE.m); o.offers[2].price = String(PRICE.y); o.offers.forEach((x) => { if (x.price !== '0') x.priceCurrency = PRICE.cur === '€' ? 'EUR' : x.priceCurrency; }); ld.textContent = JSON.stringify(o); } catch { /* sans importance */ }
   document.getElementById('y').textContent = new Date().getFullYear();
@@ -1249,7 +1249,7 @@
 
     // ---------- particules carrées (braises) ----------
     const cx = cv.getContext('2d'); let W = 0, H = 0, DPR = 1; const P = [];
-    const COLS = ['#ff7a1a', '#ffb347', '#ff3d8b', '#8cff2e', '#b44dff'];
+    const COLS = ['#ff2d6f', '#ff7ab0', '#7b2cff', '#b44dff', '#38c8ff'];
     const fit = () => { DPR = Math.min(devicePixelRatio || 1, 1.5); W = cv.width = Math.round(innerWidth * DPR); H = cv.height = Math.round(innerHeight * DPR); };
     fit(); addEventListener('resize', fit);
     for (let i = 0; i < 120; i++) P.push({ x: Math.random(), y: Math.random(), s: rnd(1.5, 4.2), v: rnd(.015, .07), d: rnd(-.01, .01), c: COLS[(Math.random() * COLS.length) | 0], a: rnd(.25, .9), z: rnd(.2, 1.2), t: rnd(0, 6) });
@@ -1288,7 +1288,7 @@
       [4, 200, 86, '<div class="t">Niveau 12</div><div class="bar"><i style="width:44%"></i></div><div class="row"><span>' + TKI.svg('star') + ' Super Fan</span><b>+250 XP</b></div>', 'mn'],
       [5, 240, 104, '<div class="t">Boss</div><div class="big">GOBLIN</div><div class="hp"><i style="width:58%"></i></div>', 'mn boss'],
       [6, 270, 116, '<span>REC ●</span>', 'mn cam'],
-      [6, 240, 96, '<div class="t">' + TKI.svg('pumpkin') + ' Halloween</div><div class="row">Toiles, bave, citrouilles<b>' + TKI.svg('spark') + '</b></div>', 'mn'],
+      [6, 250, 96, '<div class="t">' + TKI.svg('star') + ' Thèmes de jeux</div><div class="row">Fortnite, Valorant, GTA6<b>' + TKI.svg('spark') + '</b></div>', 'mn'],
       [1, 170, 90, '<div class="t">Spectateurs</div><div class="big">1 284</div>', 'mn'],
     ];
     for (const [g, w, h, html, cls, em] of MINIS) {
@@ -1297,7 +1297,7 @@
       add(el, w, h, { g, rad: 300 + R() * 420 });
     }
     // la tornade : une hélice (escalier en spirale) de grandes captures et de vignettes, avec des icônes qui flottent dedans
-    const TORN = ['img/design.jpg', 'img/boutique.jpg', 'img/preview.jpg', 'img/halloween.jpg', 'img/live.jpg', 'img/roues.jpg', 'img/cameras.jpg'], TR = [.629, .629, .629, .629, .629, .5, .429], NT = 27;
+    const TORN = ['img/design.jpg', 'img/boutique.jpg', 'img/preview.jpg', 'img/live.jpg', 'img/roues.jpg', 'img/cameras.jpg'], TR = [.629, .629, .629, .629, .5, .429], NT = 27;
     const GM = { 3: 3, 6: 4, 9: 5, 12: 6 };   // 4 grandes cartes passent devant, une par chapitre (cadeaux, chat, jeux, thèmes)
     for (let i = 0; i < NT; i++) {
       const big = i % 3 === 0, k = (i * 2) % TORN.length, w = big ? 300 : 170 + ((i * 29) % 40), h = Math.round(w * TR[k]);
@@ -1308,13 +1308,13 @@
       else { el.style.backgroundSize = '300% 300%'; el.style.setProperty('--p0', ((i * 7) % 3) * 50 + '% ' + ((i * 5) % 3) * 50 + '%'); el.style.setProperty('--p1', (((i * 7) % 3) * 50 + 50) % 101 + '% ' + (((i * 5) % 3) * 50 + 50) % 101 + '%'); el.classList.add('pn'); }
       add(el, w, h, { tor: true, g: GM[i] || 0, a0: i * 1.35, ty: (i / (NT - 1)) * 2 - 1 });
     }
-    const SPR = ['rose', 'heart', 'gift', 'star', 'flame', 'galaxy', 'lion', 'rocket', 'spark', 'ghost', 'pumpkin', 'bat'], SCOL = ['#ff3d8b', '#ff7a1a', '#ffb347', '#b44dff', '#8cff2e', '#38c8ff'];
+    const SPR = ['rose', 'heart', 'gift', 'star', 'flame', 'galaxy', 'lion', 'rocket', 'spark', 'eye'], SCOL = ['#ff3d8b', '#ff2d6f', '#ff7ab0', '#b44dff', '#7b2cff', '#38c8ff'];
     for (let i = 0; i < 16; i++) {
       const el = document.createElement('div'); el.className = 'pc spr'; el.style.color = SCOL[i % SCOL.length];
       el.innerHTML = TKI.svg(SPR[i % SPR.length]);
       add(el, 54, 54, { tor: true, spr: true, a0: R() * 6.28, ty: R() * 2 - 1, rr: .25 + R() * .55 });
     }
-    const SLOTS = [[-150, -170, -4], [150, -60, 3], [-110, 90, -2], [170, 170, 4], [10, -10, 0]];
+    const SLOTS = [[70, -190, -4], [210, -60, 3], [100, 90, -2], [240, 170, 4], [160, -10, 0]];   // les cartes mises en avant restent du côté droit, loin du texte
     { const cnt = {}; for (const p of pieces) if (p.g) { p.gi = cnt[p.g] = (cnt[p.g] || 0) + 1; p.gi--; } }
     const MAXCH = 7;
 
@@ -1346,14 +1346,14 @@
       return cs.length - 1 + clamp((mid - cs[cs.length - 1]) / Math.max(1, end - cs[cs.length - 1]), 0, 1);
     };
     const place = (u) => {
-      const vw = innerWidth, mob = vw < 860, sc = clamp(vw / 1440, .5, 1.12) * (mob ? .8 : 1);
+      const vw = innerWidth, mob = vw < 860, sc = clamp(vw / 1440, .5, 1.12) * (mob ? 1.2 : 1);
       const ex = clamp(u, 0, 1), e = ease(ex);
       const tk = ease(clamp(1 - Math.abs(u - 2) / 1.2, 0, 1));   // 1 pendant la tornade
       const shift = mob ? 0 : e * vw * .2;
       mx += (tmx - mx) * .06; my += (tmy - my) * .06;
-      world.style.transform = 'translate3d(' + shift / sc + 'px,' + (mob ? 0 : 20) + 'px,0) scale(' + sc + ') rotateX(' + (-my * 6 + tk * 20) + 'deg) rotateY(' + (mx * 9 + e * -8) + 'deg)';
+      world.style.transform = 'translate3d(' + shift / sc + 'px,' + (mob ? -150 : 20) + 'px,0) scale(' + sc + ') rotateX(' + (-my * 6 + tk * 20) + 'deg) rotateY(' + (mx * 9 + e * -8) + 'deg)';
       stage.style.opacity = u > MAXCH - .55 ? clamp(1 - (u - (MAXCH - .55)) / .5, 0, 1) : 1;
-      const dim = mob ? .42 : 1;
+      const dim = mob ? .72 : 1;
       for (const p of pieces) {
         // état « vortex » : la pièce tourne autour de l'axe vertical, de plus en plus loin au fil des chapitres
         const ang = p.a0 + u * .75 * p.sp, rad = p.rad * (.9 + .1 * Math.sin(u * .8 + p.a0));
@@ -1392,7 +1392,7 @@
         p.el.style.opacity = (op * dim * (p.tor ? 1 : 1 - .95 * tk)).toFixed(3);   // pendant la tornade, le reste s'efface : rien ne se mélange
         p.el.style.transform = 'translate3d(' + x.toFixed(1) + 'px,' + y.toFixed(1) + 'px,' + z.toFixed(1) + 'px) rotateX(' + rx.toFixed(1) + 'deg) rotateY(' + ry.toFixed(1) + 'deg) rotateZ(' + rz.toFixed(1) + 'deg) scale(' + s.toFixed(3) + ')';
       }
-      stage.style.setProperty('--scrim', mob ? .72 : (ex * .9).toFixed(2));
+      stage.style.setProperty('--scrim', mob ? .45 : (ex * .9).toFixed(2));
     };
 
     // pastille active
@@ -1420,7 +1420,7 @@
 
     // ---------- démo « essaie toi-même » ----------
     const DEM = [
-      { e: 'lion', n: 'Lion', d: 'léa_ttk', v: 29999, col: '#ff7a1a', ft: 'LION', hearts: 14, goal: 14, chat: ['léa_ttk', 'LION !!!'] },
+      { e: 'lion', n: 'Lion', d: 'léa_ttk', v: 29999, col: '#ff2d6f', ft: 'LION', hearts: 14, goal: 14, chat: ['léa_ttk', 'LION !!!'] },
       { e: 'galaxy', n: 'Galaxie', d: 'maxplays', v: 1000, col: '#b44dff', ft: 'GALAXIE', hearts: 8, goal: 7, chat: ['maxplays', 'pour le live'] },
       { e: 'rose', n: 'Rose', d: 'nora.live', v: 1, col: '#ff3d8b', ft: 'ROSE', hearts: 3, goal: 1, chat: ['nora.live', 'une petite rose'] },
       { e: 'rocket', n: 'Fusée', d: 'tomtom', v: 500, col: '#38c8ff', ft: 'FUSÉE', hearts: 10, goal: 5, chat: ['tomtom', 'decolage !!'] },
@@ -1447,7 +1447,7 @@
       setTimeout(() => { al.classList.add('out'); setTimeout(() => al.remove(), 420); }, 2600);
       f.style.setProperty('--fc', g.col); f.classList.remove('on'); void f.offsetWidth; f.classList.add('on');
       const H = $('dmH'); for (let k = 0; k < g.hearts; k++) setTimeout(() => {
-        const s = document.createElement('span'); const k = (Math.random() * 5) | 0; s.innerHTML = TKI.svg(['pumpkin', 'bat', 'ghost', 'flame', 'heart'][k]); s.style.color = ['#ff7a1a', '#b44dff', '#d8d0ff', '#ff9a3c', '#ff3d8b'][k]; s.style.left = rnd(0, 44) + 'px'; s.style.setProperty('--dx', rnd(-26, 26) + 'px'); s.style.setProperty('--rot', rnd(-24, 24) + 'deg'); H.append(s); setTimeout(() => s.remove(), 3100);
+        const s = document.createElement('span'); const k = (Math.random() * 5) | 0; s.innerHTML = TKI.svg(['star', 'spark', 'gift', 'flame', 'heart'][k]); s.style.color = ['#ff2d6f', '#b44dff', '#d8d0ff', '#ff5f9e', '#ff3d8b'][k]; s.style.left = rnd(0, 44) + 'px'; s.style.setProperty('--dx', rnd(-26, 26) + 'px'); s.style.setProperty('--rot', rnd(-24, 24) + 'deg'); H.append(s); setTimeout(() => s.remove(), 3100);
       }, k * 90);
       chat(...g.chat);
       goal = goal + g.goal >= 100 ? 0 : goal + g.goal; $('dmGi').style.width = goal + '%'; $('dmG').textContent = Math.round(goal) + ' %';
